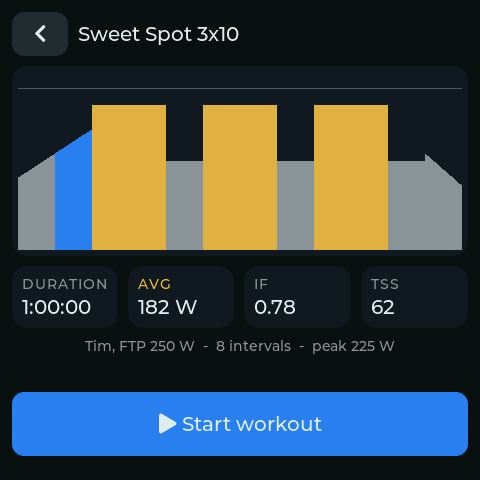
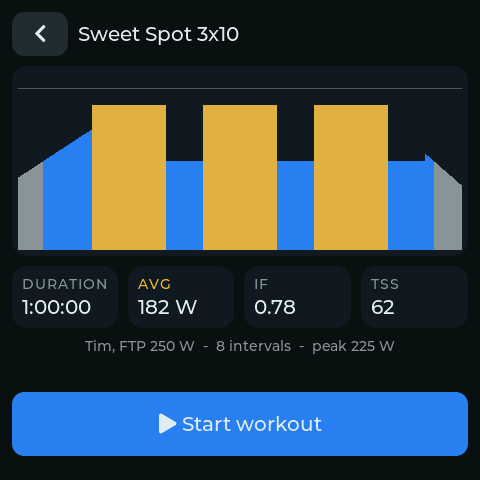
Manual: how the numbers are calculated; one set of power zones
- New manual section 10: missing data (stale values unknown, unknown
  power counts as 0 W), one ride (3 s power, moving time, distance, avg
  and max power, kJ, NP, IF, TSS, W/kg, best efforts, FTP suggestion),
  workouts (ERG target, preview estimates, interval compliance), CTL /
  ATL / TSB, power curve, zones, HR drift; days are UTC.
- The workout profile coloured zones at 60/76/90/105/118 % while the
  statistics use 55/75/90/105/120/150 %. The profile now uses the same
  limits (Z6 and Z7 share red); screenshots re-rendered.

Claude-Session: https://claude.ai/code/session_01WWMZ5bSWvTG2uzgZWCLFjf

diff --git a/docs/manual.html b/docs/manual.html
@@ -72,6 +72,7 @@ figcaption { font-size: 13px; color: var(--muted); margin-top: 6px; max-width: 2
     <li><a href="#wifi">Wi-Fi, statistics, files</a></li>
     <li><a href="#updates">Firmware updates</a></li>
     <li><a href="#settings">Settings reference</a></li>
+    <li><a href="#numbers">How the numbers are calculated</a></li>
     <li><a href="#trouble">Troubleshooting</a></li>
   </ol>
 </nav>
@@ -272,7 +273,7 @@ tools/sd_deploy.sh /Volumes/JUSTRIDE      <span class="c"># copies the statistic
 </div>
 <p>Tap <span class="btn">Workouts</span>, then a workout. The preview shows:</p>
 <ul>
-  <li>the <b>profile</b>: each bar is the target power over time, coloured by zone (grey &lt; 60 %, blue &lt; 76 %, green &lt; 90 %, yellow &lt; 105 %, orange &lt; 118 %, red above). The thin line is 100 % FTP. Free-ride parts are dark and flat;</li>
+  <li>the <b>profile</b>: each bar is the target power over time, coloured by power zone (grey Z1 &lt; 55 %, blue Z2 &lt; 75 %, green Z3 &lt; 90 %, yellow Z4 &lt; 105 %, orange Z5 &lt; 120 %, red Z6/Z7 above; the same zones as in the statistics, see <a href="#numbers">How the numbers are calculated</a>). The thin line is 100 % FTP. Free-ride parts are dark and flat;</li>
   <li><b>duration</b>, <b>average watts</b>, <b>IF</b> and <b>TSS</b> if you ride it exactly on target (free-ride parts are counted as 50 % FTP), and the peak target in watts.</li>
 </ul>
 <p>Tap <span class="btn">Start workout</span> to ride it, or <span class="btn">‹</span> to go back. During the ride a small copy of the profile sits under the timer: the part you have done is dimmed and a white line marks where you are.</p>
@@ -371,7 +372,71 @@ tools/sd_deploy.sh /Volumes/JUSTRIDE      <span class="c"># copies the statistic
 <p><code>real_ratio</code> = front teeth ÷ rear teeth of the gear your chain is actually in. <code>ratios</code>: 2–30 values, ascending. The gear table is shared by all riders.</p>
 
 <!-- ------------------------------------------------------------------ -->
-<h2 id="trouble">10. Troubleshooting</h2>
+<h2 id="numbers">10. How the numbers are calculated</h2>
+<p>The device records one sample per second while the ride runs (pauses are not recorded). Every number below is computed from these samples, on the device for the ride screen, the summary and the summary files, and in your browser for the statistics. FTP, weight and max heart rate are the rider's values <i>at the time of the ride</i>; changing them later doesn't change old rides.</p>
+
+<h3>Missing data</h3>
+<ul>
+  <li>Trainer values older than 3 seconds and heart rate older than 5 seconds count as <b>unknown</b>: the CSV has an empty field, never a repeated old value.</li>
+  <li>Seconds with unknown power count as <b>0 W</b> in average power, NP, energy and best efforts. A trainer dropout therefore lowers these numbers a little; the time still counts.</li>
+  <li>Averages of cadence and heart rate only use seconds where the value is known and above 0, so coasting doesn't lower your average cadence.</li>
+</ul>
+
+<h3>One ride</h3>
+<div class="scroll"><table>
+  <tr><th>Number</th><th>How</th></tr>
+  <tr><td>Power (ride screen)</td><td>Average of the last 3 seconds while riding; the trainer's latest value otherwise.</td></tr>
+  <tr><td>Time</td><td>Riding time without pauses.</td></tr>
+  <tr><td>Moving time</td><td>Seconds with power or cadence above 0.</td></tr>
+  <tr><td>Distance</td><td>Sum of the trainer's speed over all seconds. The KICKR computes that speed itself from the flywheel, so it is a virtual distance.</td></tr>
+  <tr><td>Average power</td><td>Sum of power ÷ number of seconds (seconds at 0 W included).</td></tr>
+  <tr><td>Max power</td><td>Highest single second.</td></tr>
+  <tr><td>Energy (kJ)</td><td>Sum of power over all seconds ÷ 1000 (1 W for 1 s = 1 J). The FIT file reports the same number as kcal, the usual approximation: the body is about 24 % efficient and 1 kcal = 4.184 kJ, so the two roughly cancel.</td></tr>
+  <tr><td>NP (normalized power)</td><td>Rolling 30-second average of power; raise each value to the 4th power, average them, take the 4th root. NP weights hard efforts more than the plain average and estimates what a steady ride of the same strain would have been. Needs at least 30 seconds.</td></tr>
+  <tr><td>IF (intensity factor)</td><td>NP ÷ FTP. 1.00 = a full hour at FTP.</td></tr>
+  <tr><td>TSS (training stress score)</td><td>Hours × IF² × 100 (= seconds × NP × IF ÷ (FTP × 3600) × 100). One hour at FTP = 100.</td></tr>
+  <tr><td>W/kg</td><td>Average power ÷ weight.</td></tr>
+  <tr><td>Best efforts</td><td>For 1 s, 5 s, 10 s, 30 s, 1, 2, 5, 10, 20, 30 and 60 min: the highest average power over any window of that length in the ride.</td></tr>
+  <tr><td>FTP suggestion</td><td>95 % of the best 20 minutes, offered only if higher than the current FTP (see <a href="#ftp">FTP from your rides</a>).</td></tr>
+</table></div>
+
+<h3>Workouts</h3>
+<ul>
+  <li><b>ERG target</b> = the workout's percentage × FTP × the intensity you set with + / − (100 % by default), never above <i>Max ERG</i> (and never above 1500 W).</li>
+  <li><b>Preview estimates</b> assume you ride exactly on target, second by second. Free-ride parts count as 50 % FTP. Average = mean of the targets; IF = 4th root of the mean of the targets to the 4th power (like NP, but without the 30-second smoothing); TSS = hours × IF² × 100.</li>
+  <li><b>Interval compliance</b> (statistics, ride detail): your average power in each ERG interval ÷ its average target.</li>
+</ul>
+
+<h3>Statistics over time</h3>
+<div class="scroll"><table>
+  <tr><th>Number</th><th>How</th></tr>
+  <tr><td>Fitness (CTL)</td><td>Exponentially weighted average of daily TSS with a 42-day time constant: each day, CTL += (that day's TSS − CTL) ÷ 42. Days without a ride count as TSS 0. Starts at 0 on the day of the first recorded ride, so it takes several weeks to mean much.</td></tr>
+  <tr><td>Fatigue (ATL)</td><td>The same with 7 days.</td></tr>
+  <tr><td>Form (TSB)</td><td>Yesterday's CTL − yesterday's ATL. Negative = tired from recent training, positive = rested.</td></tr>
+  <tr><td>Power curve</td><td>For each best-effort duration, the highest value of all rides (all time) and of the rides of the last 90 days.</td></tr>
+  <tr><td>FTP estimate</td><td>95 % of the best 20 minutes of all rides; with W/kg from the most recent weight.</td></tr>
+  <tr><td>Rides / TSS / hours / kJ cards</td><td>Sums over the last 7 or 30 days, counted back from now.</td></tr>
+</table></div>
+<p>Days are calendar days in <b>UTC</b>: a ride that starts shortly after midnight in Germany counts for the previous day in CTL, ATL and TSB.</p>
+
+<h3>Zones</h3>
+<div class="scroll"><table>
+  <tr><th>Power zone (% of FTP)</th><th>Heart-rate zone (% of max HR)</th></tr>
+  <tr><td>Z1 Recovery: below 55 %</td><td>Z1: below 60 %</td></tr>
+  <tr><td>Z2 Endurance: 55–75 %</td><td>Z2: 60–70 %</td></tr>
+  <tr><td>Z3 Tempo: 75–90 %</td><td>Z3: 70–80 %</td></tr>
+  <tr><td>Z4 Threshold: 90–105 %</td><td>Z4: 80–90 %</td></tr>
+  <tr><td>Z5 VO2max: 105–120 %</td><td>Z5: 90 % and above</td></tr>
+  <tr><td>Z6 Anaerobic: 120–150 %</td><td></td></tr>
+  <tr><td>Z7 Neuromuscular: 150 % and above</td><td></td></tr>
+</table></div>
+<p>The lower limit belongs to the zone (exactly 75 % is Z3). Time in zone counts seconds with a known value. The workout profile on the device uses the same power zones as colours.</p>
+
+<h3>Heart-rate drift (Pa:HR)</h3>
+<p>The ride is split into a first and second half by time. For each half, using only seconds with both power and heart rate: average power ÷ average heart rate. Drift = first half ÷ second half − 1. Around 0 % means your heart rate stayed in step with your power; above about 5 % on a steady endurance ride means your heart rate crept up (fatigue, heat, too little to drink). It says little about interval workouts.</p>
+
+<!-- ------------------------------------------------------------------ -->
+<h2 id="trouble">11. Troubleshooting</h2>
 <p>Keep the USB cable connected to your computer and run <code>idf.py -p /dev/cu.usbmodem* monitor</code>: the log explains most problems. At the <code>jr&gt;</code> prompt these commands help:</p>
 <div class="scroll"><table>
   <tr><th>Command</th><th>What it does</th></tr>

diff --git a/main/ui.c b/main/ui.c
@@ -214,10 +214,10 @@ static lv_obj_t *metric(lv_obj_t *parent, const char *name, uint32_t color, cons
 
 // ---- Workout profile ------------------------------------------------------------
 
-// Zwift-style zone colours by % of FTP
+// Zone colours by % of FTP: the same zone limits as the statistics app (Z6 and Z7 share red)
 static uint32_t zone_color(uint16_t pm)
 {
-    return pm < 600 ? 0x8B949E : pm < 760 ? 0x2F81F7 : pm < 900 ? 0x3FB950 : pm < 1050 ? 0xE3B341 : pm < 1180 ? 0xF0883E : 0xF85149;
+    return pm < 550 ? 0x8B949E : pm < 750 ? 0x2F81F7 : pm < 900 ? 0x3FB950 : pm < 1050 ? 0xE3B341 : pm < 1200 ? 0xF0883E : 0xF85149;
 }
 
 typedef struct {
